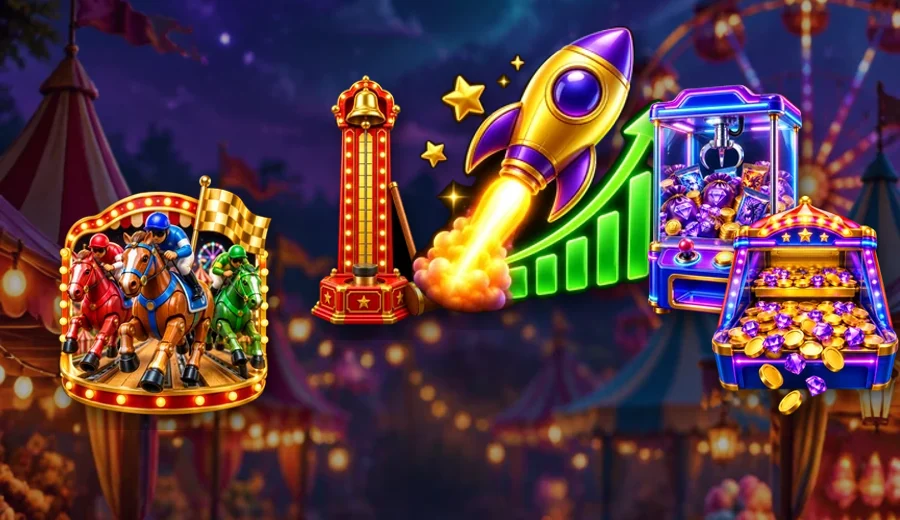
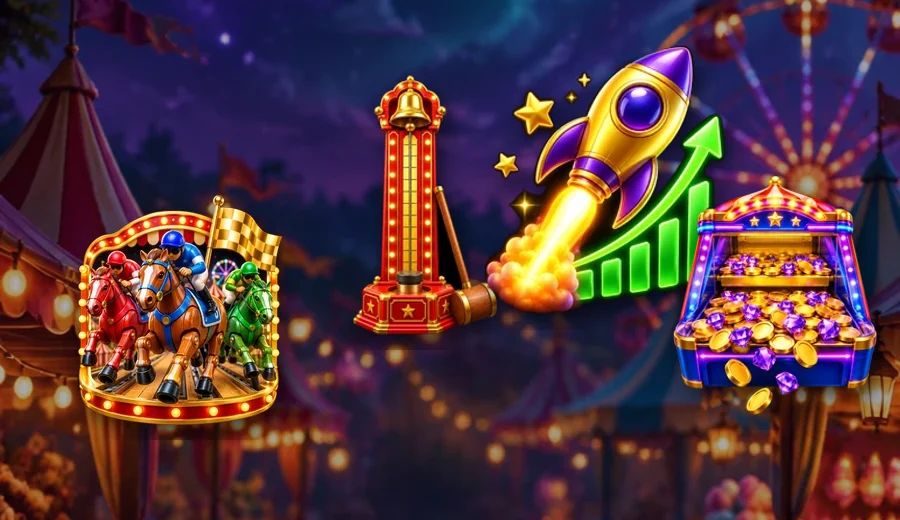
Kirmes (Hau den Lukas, Pferderennen, gemeinsamer Muenzschieber) und Mehrspieler-Rakete mit Admin-Freigabe; Kirmes-Werbung unter SPIELEN mit Vorschau; Update 19

diff --git a/public/index.html b/public/index.html
@@ -2307,6 +2307,24 @@ body.ui2 .cseg.five button{display:flex;flex-direction:column;align-items:center
 .cw-it.tgt img{filter:drop-shadow(0 0 14px #7CF0A8) drop-shadow(0 8px 10px rgba(0,0,0,.7)) brightness(1.25)!important}
 .cw-it i{font-size:12.5px;padding:2px 9px;bottom:-9px}
 .cw-it{width:calc(17% * var(--s))!important}.cw-chute{width:15%!important;height:16%!important}
+
+/* Kirmes-Werbung unter SPIELEN */
+body.ui2 #app:not(.maint) #promoCard{order:-2!important}
+.promo-kirmes{position:relative;display:block;width:100%;height:132px;padding:0;border:0;border-radius:20px;overflow:hidden;background:#0a0614;box-shadow:inset 0 0 0 2px #FFD23F,0 10px 24px rgba(0,0,0,.45);text-align:left;color:inherit;cursor:pointer}
+.promo-kirmes > img{position:absolute;inset:0;width:100%;height:100%;object-fit:cover}
+.promo-kirmes::after{content:"";position:absolute;inset:0;background:linear-gradient(90deg,rgba(8,4,20,.92) 0%,rgba(8,4,20,.55) 55%,rgba(8,4,20,.05) 100%)}
+.pk-tag{position:absolute;top:10px;left:12px;z-index:2;padding:3px 10px;border-radius:99px;background:#FF4FA3;font:900 10.5px Archivo,sans-serif;letter-spacing:1.2px;color:#fff;animation:ncpulse 1.6s ease-in-out infinite}
+.pk-txt{position:absolute;left:12px;right:40%;bottom:10px;z-index:2;display:flex;flex-direction:column;gap:3px}
+.pk-txt b{font:400 24px/1 Anton,Impact,sans-serif;letter-spacing:.6px;color:#FFE27A;text-shadow:0 2px 0 #4A2A00}
+.pk-txt small{font:700 11px/1.3 Archivo,sans-serif;color:#F3EAFF}
+.pk-txt em{font:800 12px Archivo,sans-serif;font-style:normal;color:#7CF0A8}
+.km-teaser{gap:10px!important;position:relative}
+.kt-hero{width:100%;border-radius:14px;aspect-ratio:16/9;object-fit:cover}
+.kt-tag{position:absolute;top:26px;left:26px;padding:3px 10px;border-radius:99px;background:#FF4FA3;font:900 11px Archivo,sans-serif;letter-spacing:1.2px;color:#fff}
+.km-teaser h2{margin:0;font:400 28px/1 Anton,Impact,sans-serif;color:#FFE27A;letter-spacing:.6px}
+.kt-row{display:flex;gap:10px;align-items:center;padding:8px;border-radius:12px;background:rgba(255,255,255,.06)}
+.kt-row img{width:54px;height:54px;object-fit:contain;flex:none}
+.kt-row b{display:block;font:800 14px Archivo,sans-serif}.kt-row small{display:block;font:600 12px/1.35 Archivo,sans-serif;color:var(--muted)}
 </style>
 </head>
 <body>
@@ -2332,7 +2350,7 @@ body.ui2 .cseg.five button{display:flex;flex-direction:column;align-items:center
 <div id="toast" role="status"></div>
 <script src="/socket.io/socket.io.js"></script>
 <script>
-const AVER = '235';
+const AVER = '236';
 const IMGV = '1'; // Bilder-Version: NUR erhöhen, wenn sich ein Bild unter gleichem Namen ändert (Bilder werden 30 Tage gespeichert)
 const $ = (s, r = document) => r.querySelector(s);
 const esc = (s) => String(s).replace(/[&<>"']/g, (c) => ({ '&': '&amp;', '<': '&lt;', '>': '&gt;', '"': '&quot;', "'": '&#39;' }[c]));
@@ -5503,15 +5521,25 @@ function dupeSellDialog() { // Doppelte ab Legendär auf die Börse, eine Karte 
   draw();
 }
 function loadNews() { return api('/api/news').then((r) => { newsPosts = r.posts || []; renderNewsCard(); if (page === 'news') renderNews(); }).catch(() => {}); }
-const PROMO_GAMES = { triple: { name: 'Triple Crown', logo: '/promo/triple.webp', ids: [1, 2] }, jester: { name: 'Narrenkappe', logo: '/promo/jester.webp', ids: [3, 4] }, anubis: { name: 'Auge des Anubis', logo: '/promo/anubis.webp', ids: [5, 6] }, crypt: { name: 'Buch der Gruft', logo: '/promo/crypt.webp', ids: [7, 8] } }; // zugeschnittene Logos
+const PROMO_GAMES = { kirmes: { name: 'Kirmes & Rakete', logo: '/kirmes/i_rocket.webp', ids: [] }, triple: { name: 'Triple Crown', logo: '/promo/triple.webp', ids: [1, 2] }, jester: { name: 'Narrenkappe', logo: '/promo/jester.webp', ids: [3, 4] }, anubis: { name: 'Auge des Anubis', logo: '/promo/anubis.webp', ids: [5, 6] }, crypt: { name: 'Buch der Gruft', logo: '/promo/crypt.webp', ids: [7, 8] } }; // zugeschnittene Logos
+function kmTeaser() { // Vorschau vor der Freigabe: Bilder und Infos zu allen Spielen
+  const G = [['i_lukas', 'Hau den Lukas', 'Hammer schwingen, die Scheibe fliegt, an der Glocke gibt es 8×.'], ['i_race', 'Pferderennen', '6 Pferde, vom Favoriten bis zum Außenseiter mit 28×.'], ['i_pusher', 'Münzschieber', 'Ein gemeinsamer Automat für alle: Münzen bleiben liegen, du spielst weiter, wo andere aufgehört haben. Mit Münztürmen und Lawinen.'], ['i_rocket', 'Rakete · Mehrspieler', 'Bis zu 8 Spieler pro Runde. Steig aus, bevor sie explodiert!']];
+  $('#modal').innerHTML = `<div class="panel km-teaser"><img class="kt-hero" src="/news/u19_hero.webp?v=${IMGV}" alt=""><span class="kt-tag">BALD</span><h2>Die Kirmes kommt!</h2><p class="sub">Neue Casino-Bereiche mit Rummel-Spaß. Sobald sie freigeschaltet sind, findest du sie im Casino.</p>
+    ${G.map(([i, n, d]) => `<div class="kt-row"><img src="${kmImg(i)}" alt=""><span><b>${n}</b><small>${d}</small></span></div>`).join('')}
+    <button class="btn" id="ktOk" style="margin-top:6px">Ich freu mich drauf!</button></div>`;
+  $('#modal').classList.add('on'); $('#ktOk').onclick = closeModal; $('#modal').onclick = (e) => { if (e.target.id === 'modal') closeModal(); };
+}
 function renderPromo() { // Automaten-Werbung auf der Startseite (Admin-Menü → Startseite)
   const el = $('#promoCard'); if (!el) return; const p = home && home.promo, g = p && PROMO_GAMES[p.game];
   if (!g) { el.innerHTML = ''; return; }
+  if (p.game === 'kirmes') { const open = !!(home && home.kirmesLive); // Kirmes-Werbung: vor der Freigabe als Vorschau, danach direkt hinein
+    el.innerHTML = `<button class="promo-kirmes" data-promo="kirmes"><img src="/news/u19_hero.webp?v=${IMGV}" alt=""><span class="pk-tag">${open ? 'JETZT NEU' : 'BALD'}</span><span class="pk-txt"><b>${esc(p.text || (open ? 'Die Kirmes ist offen!' : 'Die Kirmes kommt!'))}</b><small>Hau den Lukas · Pferderennen · Münzschieber · Rakete für 8 Spieler</small><em>${open ? 'Jetzt spielen ›' : 'Mehr erfahren ›'}</em></span></button>`; return; }
   const free = g.ids.filter((id) => !(tcMachines || []).some((m) => m.id === id && m.user)).length;
   el.innerHTML = `<button class="promo-card promo-${p.game}" data-promo="${p.game}"><img src="${g.logo}?v=${IMGV}" alt="${esc(g.name)}"><div class="grow"><b>${esc(p.text || `Jetzt ${g.name} ausprobieren!`)}</b><small>${free ? `🎰 ${free === 2 ? 'Beide Maschinen frei' : '1 Maschine frei'} · Jetzt spielen ›` : '👀 Gerade beide belegt · Zuschauen ›'}</small></div></button>`;
 }
 async function promoGo(game) { // direkt an eine freie Maschine setzen
   const g = PROMO_GAMES[game]; if (!g) return;
+  if (game === 'kirmes') { if (home && home.kirmes) { page = 'casino'; ctab = 'casino'; cgame = 'kirmesHub'; render(); loadTcg(); window.scrollTo(0, 0); } else kmTeaser(); return; }
   page = 'casino'; ctab = 'casino'; cgame = game; tc.seat = null; tc.watch = null; render(); await loadTcg();
   const busy = (id) => (tcMachines || []).some((m) => m.id === id && m.user);
   const mine = (tcMachines || []).find((m) => g.ids.includes(m.id) && m.user && home && m.user.id === home.me.id);
@@ -5985,7 +6013,7 @@ function loadAdmin() {
         <div class="hm-games">${Object.entries(PROMO_GAMES).map(([k, g]) => `<button class="hm-g ${P.game === k ? 'on' : ''}" data-hmg="${k}"><img src="${g.logo}?v=${IMGV}" alt=""><small>${esc(g.name)}</small></button>`).join('')}</div>
         <input class="field" id="hmText" maxlength="120" placeholder="Text, z. B. Probier jetzt das neue Buch der Gruft!" value="${esc(P.text || '')}" style="margin-top:8px">
         <button class="btn small" id="hmSave" style="width:100%;margin-top:8px">Werbung speichern</button>
-        <p class="sub" style="margin:6px 0 0;font-size:12px">Ein Tipp auf die Karte setzt Spieler direkt an eine freie Maschine. Sind beide belegt, kommt ein Hinweis.</p>`;
+        <p class="sub" style="margin:6px 0 0;font-size:12px">Ein Tipp auf die Karte setzt Spieler direkt an eine freie Maschine. „Kirmes & Rakete“: vor der Freigabe zeigt die Karte eine Vorschau mit Bildern, danach führt sie direkt in die Kirmes.</p>`;
       const send = (body, msg) => api('/api/admin/home', body).then((r) => { home.homeCfg = r.homeCfg; home.ui2Live = !!r.homeCfg.ui2Live; home.newsCardOff = !r.homeCfg.newsCard; home.promo = r.homeCfg.promo.on ? { game: r.homeCfg.promo.game, text: r.homeCfg.promo.text } : null; toast(msg); draw(); if (!newsPosts) loadNews(); else renderNewsCard(); renderPromo(); }).catch((e) => toast(e.message));
       const mt = (on) => api('/api/admin/maintenance', { on, text: $('#mtText').value }).then((r) => { home.maintAdmin = r; toast(on ? '🛠 Wartung aktiv: alle anderen sehen jetzt die Wartungsseite' : '✅ Wartung beendet, alles ist wieder offen'); draw(); }).catch((e) => toast(e.message));
       $('#mtOn').onclick = () => { if (confirm('Wartung starten? Alle außer dir können dann nur noch ihr Profil bearbeiten und Tickets schreiben.')) mt(true); }; $('#mtOff').onclick = () => mt(false);
@@ -6615,7 +6643,7 @@ function fillU2Home() {
     <div class="u2-stage">
       <div class="u2-rail">${daily ? sb('daily', U2('i_gift'), 'Tagesbonus', '!', '', '#FFD23F').replace('class="u2-sb"', 'class="u2-sb wig"') : sb('daily', U2('i_gift'), 'Tagesbonus', '', '', '#FFD23F')}${wl ? sb('go:wheel', '/news/u17_hero.webp?v=' + IMGV, 'Glücksrad', wl, '', '#B18CFF').replace('class="u2-sb"', 'class="u2-sb wig"') : sb('go:wheel', '/news/u17_hero.webp?v=' + IMGV, 'Glücksrad', '', '', '#B18CFF')}${sb('go:challenges', U2('i_trophy'), 'Aufgaben', chal, '', '#7CF0A8')}${hv && hv.active ? sb('hot', U2('i_flame'), 'Hot Time', '🔥', 'läuft', '#FF8C50') : ''}${boostOn ? sb('boost', U2('i_flame'), 'Doppel-XP', '2×', '', '#FFD23F') : ''}</div>
       <div class="u2-center"><button class="u2-isle" data-u2="isle" aria-label="Deine Insel"><img src="${U2('isle_' + Math.max(0, Math.min(11, me.prestige || 0)))}" alt=""><span>${esc(u2IsleName(me.prestige || 0))}</span></button><h1>SCHÄTZ-QUIZ</h1><p>Wer am nächsten dran ist, gewinnt</p></div>
-      <div class="u2-rail">${gifts ? sb('gifts', '/tcg/chest.webp?v=' + IMGV, 'Geschenk', gifts, '', '#FF4FA3') : ''}${home.banner ? sb('ann', U2('i_news'), 'Nachricht', home.banner.claimable ? '🎁' : '!', '', '#FFD23F') : ''}${sb('go:booster', '/tcg/pack_gn.webp?v=' + IMGV, 'Booster', packs, '', '#8FD3FF')}${pr ? sb('promo', '/promo/' + pr.game + '.webp?v=' + IMGV, 'Neu', '', '', '#7CF0A8') : sb('tab:casino', U2('i_casino'), 'Casino', '', '', '#7CF0A8')}${sb('go:support', U2('i_support'), 'Support', (me.openTickets || []).filter((id) => !tkSeen().has(id)).length || '', '', '#8FD3FF')}</div>
+      <div class="u2-rail">${gifts ? sb('gifts', '/tcg/chest.webp?v=' + IMGV, 'Geschenk', gifts, '', '#FF4FA3') : ''}${home.banner ? sb('ann', U2('i_news'), 'Nachricht', home.banner.claimable ? '🎁' : '!', '', '#FFD23F') : ''}${sb('go:booster', '/tcg/pack_gn.webp?v=' + IMGV, 'Booster', packs, '', '#8FD3FF')}${pr ? sb('promo', pr.game === 'kirmes' ? kmImg('i_rocket') : '/promo/' + pr.game + '.webp?v=' + IMGV, pr.game === 'kirmes' ? 'Kirmes' : 'Neu', '', '', '#7CF0A8') : sb('tab:casino', U2('i_casino'), 'Casino', '', '', '#7CF0A8')}${sb('go:support', U2('i_support'), 'Support', (me.openTickets || []).filter((id) => !tkSeen().has(id)).length || '', '', '#8FD3FF')}</div>
     </div>
     <div class="u2-play"><button class="u2-pb" data-u2="solo" aria-label="Solo-Quiz"><img src="${U2('i_quiz')}" alt=""><span>Solo</span></button>
       <button class="u2-go ${full ? 'off' : ''}" data-u2="play"><b>SPIELEN</b><small>${full ? 'Alle Plätze belegt' : 'Freies Spiel · Themen wählen'}</small></button>

diff --git a/server.js b/server.js
@@ -2027,7 +2027,7 @@ app.post('/api/admin/home', async (req, res) => { // Startseite: Update-Karte an
   if (b.promo && typeof b.promo === 'object') {
     const p = b.promo;
     if ('on' in p) homeCfg.promo.on = !!p.on;
-    if (['triple', 'jester', 'anubis', 'crypt'].includes(p.game)) homeCfg.promo.game = p.game;
+    if (['kirmes', 'triple', 'jester', 'anubis', 'crypt'].includes(p.game)) homeCfg.promo.game = p.game;
     if ('text' in p) homeCfg.promo.text = String(p.text || '').slice(0, 120);
   }
   await store.setting('home_cfg', JSON.stringify(homeCfg)); io.emit('home:cfg', { ui2Live: !!homeCfg.ui2Live, newsCardOff: !homeCfg.newsCard, promo: homeCfg.promo.on ? { game: homeCfg.promo.game, text: homeCfg.promo.text } : null }); res.json({ homeCfg });
